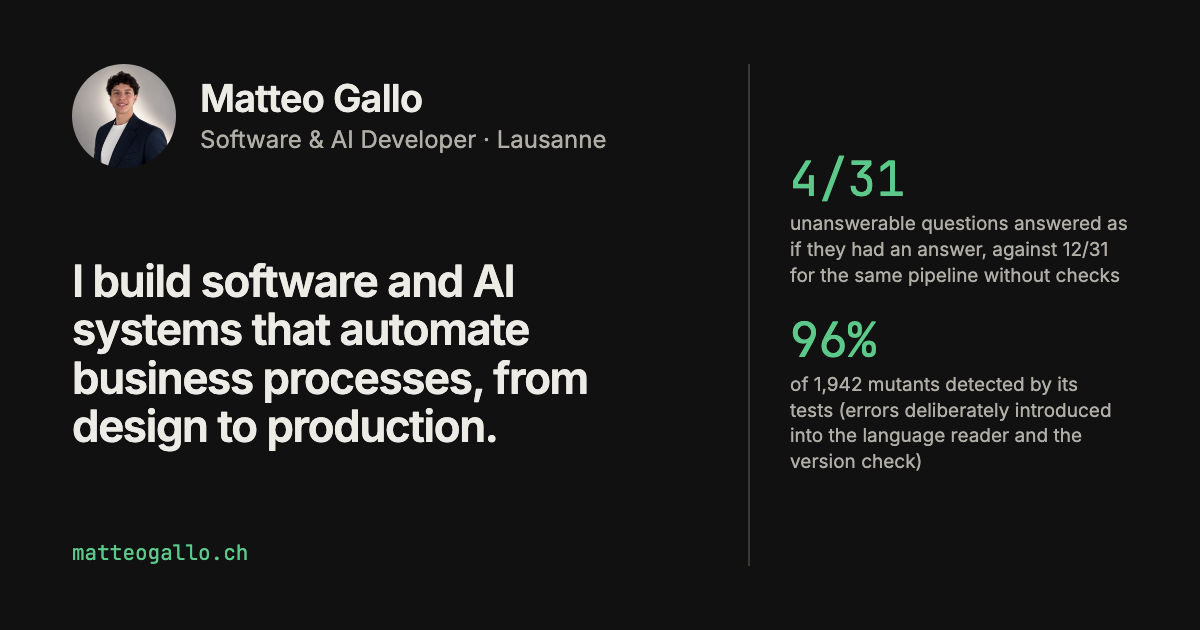
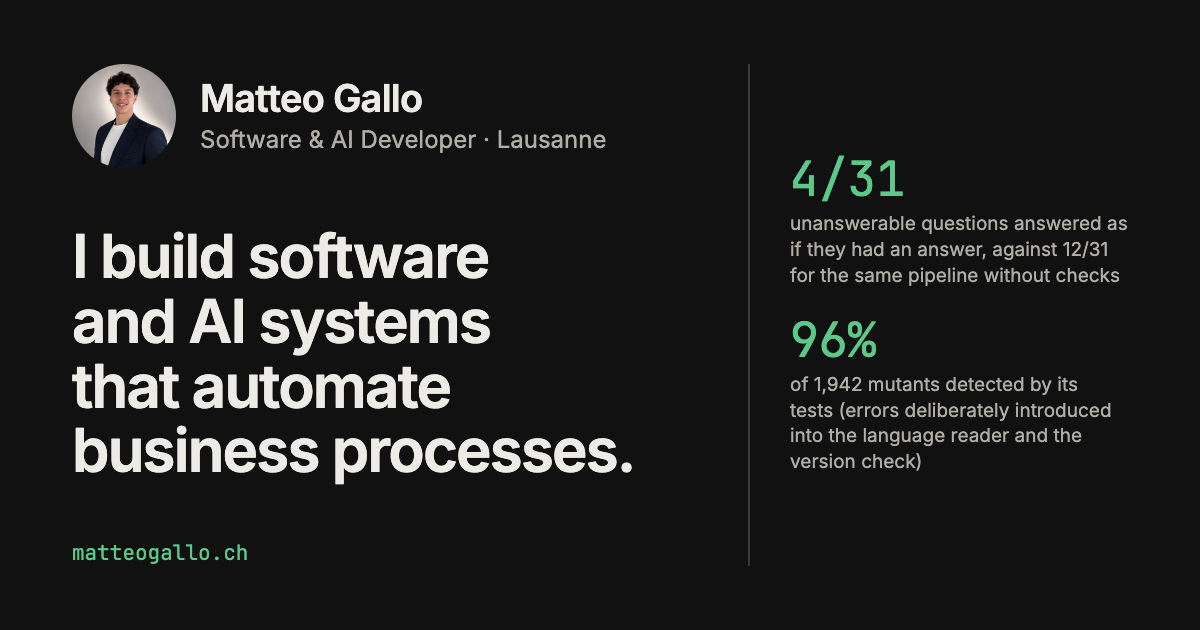
fix(copy): shorter headline, back within the original line budget
The full promise took 7 lines at 1440 px and read as a block of text.
The headline now stops at "processus métier" / "business processes":
4 lines at 1440 px and 5 at 375 px in French, so the line budget and
the OG title size (60 px) return to their values on main. The test
that keeps the hero's buttons in the first screen at 1280x800 stays.

Changed region(s): [[0.0617, 0.3619, 0.5242, 0.7841]]

diff --git a/src/lib/og.ts b/src/lib/og.ts
@@ -14,13 +14,13 @@ export const OG = {
   role: { fr: "Développeur logiciel et intelligence artificielle · Lausanne", en: "Software & AI Developer · Lausanne" },
   fr: {
     file: "public/og.png",
-    headline: "Je conçois des logiciels et des systèmes d’IA qui automatisent les processus métier des entreprises, de la conception à la mise en production.",
-    alt: "Matteo Gallo, développeur logiciel et intelligence artificielle à Lausanne : « Je conçois des logiciels et des systèmes d’IA qui automatisent les processus métier des entreprises, de la conception à la mise en production. »",
+    headline: "Je conçois des logiciels et des systèmes d’IA qui automatisent les processus métier.",
+    alt: "Matteo Gallo, développeur logiciel et intelligence artificielle à Lausanne : « Je conçois des logiciels et des systèmes d’IA qui automatisent les processus métier. »",
   },
   en: {
     file: "public/og-en.png",
-    headline: "I build software and AI systems that automate business processes, from design to production.",
-    alt: "Matteo Gallo, software and AI developer in Lausanne: “I build software and AI systems that automate business processes, from design to production.”",
+    headline: "I build software and AI systems that automate business processes.",
+    alt: "Matteo Gallo, software and AI developer in Lausanne: “I build software and AI systems that automate business processes.”",
   },
   /** The home page's project cards, drawn beside the headline: one figure each, as the card shows it. */
   figures: [

diff --git a/tests/home.spec.ts b/tests/home.spec.ts
@@ -13,7 +13,7 @@ const WORDS = {
     role: "Développeur logiciel et intelligence artificielle · Lausanne",
     specialty: "Automatisation des processus métier",
     status: "Disponible pour des projets ou un poste",
-    h1: "Je conçois des logiciels et des systèmes d'IA qui automatisent les processus métier des entreprises, de la conception à la mise en production.",
+    h1: "Je conçois des logiciels et des systèmes d'IA qui automatisent les processus métier.",
     message: "Recherche documentaire qui cite ou refuse, langage typé pour prompts : chaque résultat publié avec sa preuve.",
     actions: ["Voir les projets", "Me contacter"],
     projects: [
@@ -49,7 +49,7 @@ const WORDS = {
     role: "Software & AI Developer · Lausanne",
     specialty: "Business process automation",
     status: "Available for projects or a role",
-    h1: "I build software and AI systems that automate business processes, from design to production.",
+    h1: "I build software and AI systems that automate business processes.",
     message: "Document search that cites or refuses, a typed language for prompts: every result published with its proof.",
     actions: ["See the projects", "Get in touch"],
     projects: [

diff --git a/tests/layout.spec.ts b/tests/layout.spec.ts
@@ -362,12 +362,10 @@ for (const width of [375, 1440]) {
   });
 }
 
-// The headline is the first thing read. The budget is the measured length of the French promise,
-// a full sentence: 7 lines at 1440 px, 8 at 375 px; a longer one fails here, and the test below
-// keeps the buttons in the first screen whatever the headline's length. Lines are
-// counted from the text's own boxes, not its height, once the site's fonts are in: a narrower
-// fallback would pass with fewer lines.
-for (const [width, most] of [[1440, 7], [375, 8]] as const) {
+// The headline is the first thing read: at 7 lines on a 1440 px screen it pushed the message and
+// the buttons down. Lines are counted from the text's own boxes, not its height, once the site's
+// fonts are in: a narrower fallback would pass with fewer lines.
+for (const [width, most] of [[1440, 4], [375, 5]] as const) {
   for (const path of ["/", "/en/"]) {
     test(`${path} at ${width} px: the headline holds in ${most} lines or fewer`, async ({ page }) => {
       await page.setViewportSize({ width, height: 900 });

diff --git a/scripts/og.ts b/scripts/og.ts
@@ -71,8 +71,7 @@ function page(image: OgImage): string {
   img { width: 104px; height: 104px; border-radius: 50%; }
   .name { font-size: 38px; font-weight: 600; letter-spacing: var(--track-44); line-height: 1.1; }
   .role { font-size: 24px; color: var(--graphite); margin-top: 6px; }
-  /* 44 px: the home headline is a full sentence (142 characters in French) and must fit beside the figures. */
-  h1 { margin: 0; font-size: 44px; font-weight: 600; letter-spacing: var(--track-68); line-height: 1.1; text-wrap: balance; }
+  h1 { margin: 0; font-size: 60px; font-weight: 600; letter-spacing: var(--track-68); line-height: 1.08; text-wrap: balance; }
   h1.case-name { font-size: 104px; letter-spacing: var(--track-68); line-height: 1; margin-top: 12px; }
   .kind { font-family: "JetBrains Mono"; font-size: 22px; color: var(--graphite); }
   .site { font-family: "JetBrains Mono"; font-size: 21px; color: var(--proof-text); }

diff --git a/docs/SPEC.md b/docs/SPEC.md
@@ -24,7 +24,7 @@ Plain text on the left, one strong visual on the right: Verity working on a cont
 ### 3.1 Home `/`
 1. **Navigation:** floating glass pill. Projects · Method · About, and the FR | EN selector; Writing joins it once an article exists. On the other pages the selector sits in the header.
 2. **First screen:** sober, readable by a recruiter in 30 seconds; no band of figures.
-   - Left, in small type: the **portrait** (56 px, round), the name, « Développeur logiciel et intelligence artificielle · Lausanne » / "Software & AI Developer · Lausanne", the specialty « Automatisation des processus métier » / "Business process automation" in the same small type, and the status « Disponible pour des projets ou un poste » / "Available for projects or a role" (green dot). Then the headline, 32 px at 375 px to 38 px from 1440 px, in at most 8 lines at 375 px and 7 at 1440 px, the buttons under it still in the first screen at 1280 × 800: « Je conçois des logiciels et des systèmes d’IA qui automatisent les processus métier des entreprises, de la conception à la mise en production. » (EN: "I build software and AI systems that automate business processes, from design to production."). Under it: « Recherche documentaire qui cite ou refuse, langage typé pour prompts : chaque résultat publié avec sa preuve. », and the buttons « Voir les projets » and « Me contacter » (“Get in touch”), the second leading to the contact section.
+   - Left, in small type: the **portrait** (56 px, round), the name, « Développeur logiciel et intelligence artificielle · Lausanne » / "Software & AI Developer · Lausanne", the specialty « Automatisation des processus métier » / "Business process automation" in the same small type, and the status « Disponible pour des projets ou un poste » / "Available for projects or a role" (green dot). Then the headline, 32 px at 375 px to 38 px from 1440 px, in at most 5 lines at 375 px and 4 at 1440 px, the buttons under it in the first screen at 1280 × 800: « Je conçois des logiciels et des systèmes d’IA qui automatisent les processus métier. » (EN: "I build software and AI systems that automate business processes."). Under it: « Recherche documentaire qui cite ou refuse, langage typé pour prompts : chaque résultat publié avec sa preuve. », and the buttons « Voir les projets » and « Me contacter » (“Get in touch”), the second leading to the contact section.
    - Right: the Verity demo (section 2).
 3. **Projects:** 2 cards (Verity, PromptLang; no calibre number), each with **a real screenshot or GIF** of the product and a one-line caption (« Démo enregistrée : … Voir le GIF ↗ »; the detail is in the alt text), one sentence opening with what the project is technically (no jargon left unexplained, except PromptLang's, which names its terms bare, as its case study's first sentence does: « Compilateur pour un langage typé de prompts : génère du code TypeScript et Python, publié sur npm. », EN "A compiler for a typed prompt language: generates TypeScript and Python, published on npm."), **one** figure linked to its proof and written with what it is compared with (a baseline, a sample size), and at the foot a secondary button « Lire l’étude de cas → » beside « Code sur GitHub ↗ ». Verity's figure is the pre-registered comparison with « la même chaîne sans contrôles » (“the same pipeline without checks”), its p kept on the case study; PromptLang's, its mutation score in whole percents with the number of mutants it is taken over. Limits and technologies live on the case studies. The whole card opens its case study (its title is the link, stretched over the card; the links it holds stay their own, above it); under the pointer it rises 2 px and its border darkens, and keyboard focus rings the whole card. The other figures stay on the case studies. Under the cards, a short « Expériences » (“Experiments”) list: one line per project whose result did not hold, linking to its case study and to the published result; Praxis's reads « Praxis — pipeline d’analyse en 7 étapes ; comparé à l’aveugle, sur une question, à un appel unique 9,8× moins cher : le relecteur a préféré l’appel unique. Résultat publié. » (EN: "Praxis — a 7-stage analysis pipeline; compared blind, on one question, with a single call 9.8× cheaper: the reviewer preferred the single call. Result published."), its two figures linked to their proof. Its case study stays, the result among its known limits.
 4. **Method:** 3 cards side by side with noun titles (« Audit à froid », « Lecture des sorties réelles », « Évaluation pré-enregistrée »; EN “Cold audit”: an AI agent the author ran, not an independent auditor), the real incident behind each in at most two sentences and the link to its PR. Link to the repository.
@@ -46,7 +46,7 @@ How the site is built: stack, budgets, real measures, accessibility choices, wha
 
 ## 4. Visual system
 - **Type:** Inter (headings and body; no optical-size axis, the display look of headings comes from the negative tracking), Source Serif 4 at 400 and 600 (only the demo contract and quotes, loaded only by the pages that declare it; renamed "Site Serif" inside the font files because "Source" is a Reserved Font Name under the OFL), JetBrains Mono at 400 (measures, traces). Self-hosted strict subsets, built by `scripts/fonts/subset.py` from pinned upstream releases.
-- **Scale:** 12 · 14 · 16 · 21 · 28 · 44 · 68 px. Negative tracking on large headings. The home headline alone is fluid, between 32 and 38 px (§3.1): at 68 px a French sentence of half its length already took 7 lines.
+- **Scale:** 12 · 14 · 16 · 21 · 28 · 44 · 68 px. Negative tracking on large headings. The home headline alone is fluid, between 32 and 38 px (§3.1): at 68 px its French text took 7 lines.
 - **Colours:** paper `#F5F4F0`, ink `#111111`, graphite `#52524E` (7:1 on the paper), rules `#DAD8D2`, proof `#1E8A4C`/`#17703D`, defect `#A8382A`, night blue `#1C2A44`. Automatic dark mode (`prefers-color-scheme`, no toggle): paper `#101110`, cards and demo on the sheet `#1D1E1B` with a 1 px rule, graphite `#B0AEA6`. Body and secondary text at 7:1 or more, accents at 4.5:1, on the paper and the sheet, in both modes (contrast.test.ts).
 - **Grid:** 12 columns, 24 px gutter, 1200 px container. Dotted vertical rules, "+" marks between sections, numbered sections.
 - **Glass:** only the navigation, the spotlight's ring and the answer card. Frosted glass everywhere; SVG refraction as progressive enhancement (Chromium); opaque version under `prefers-reduced-transparency`. Text on glass only over a known, controlled background.
